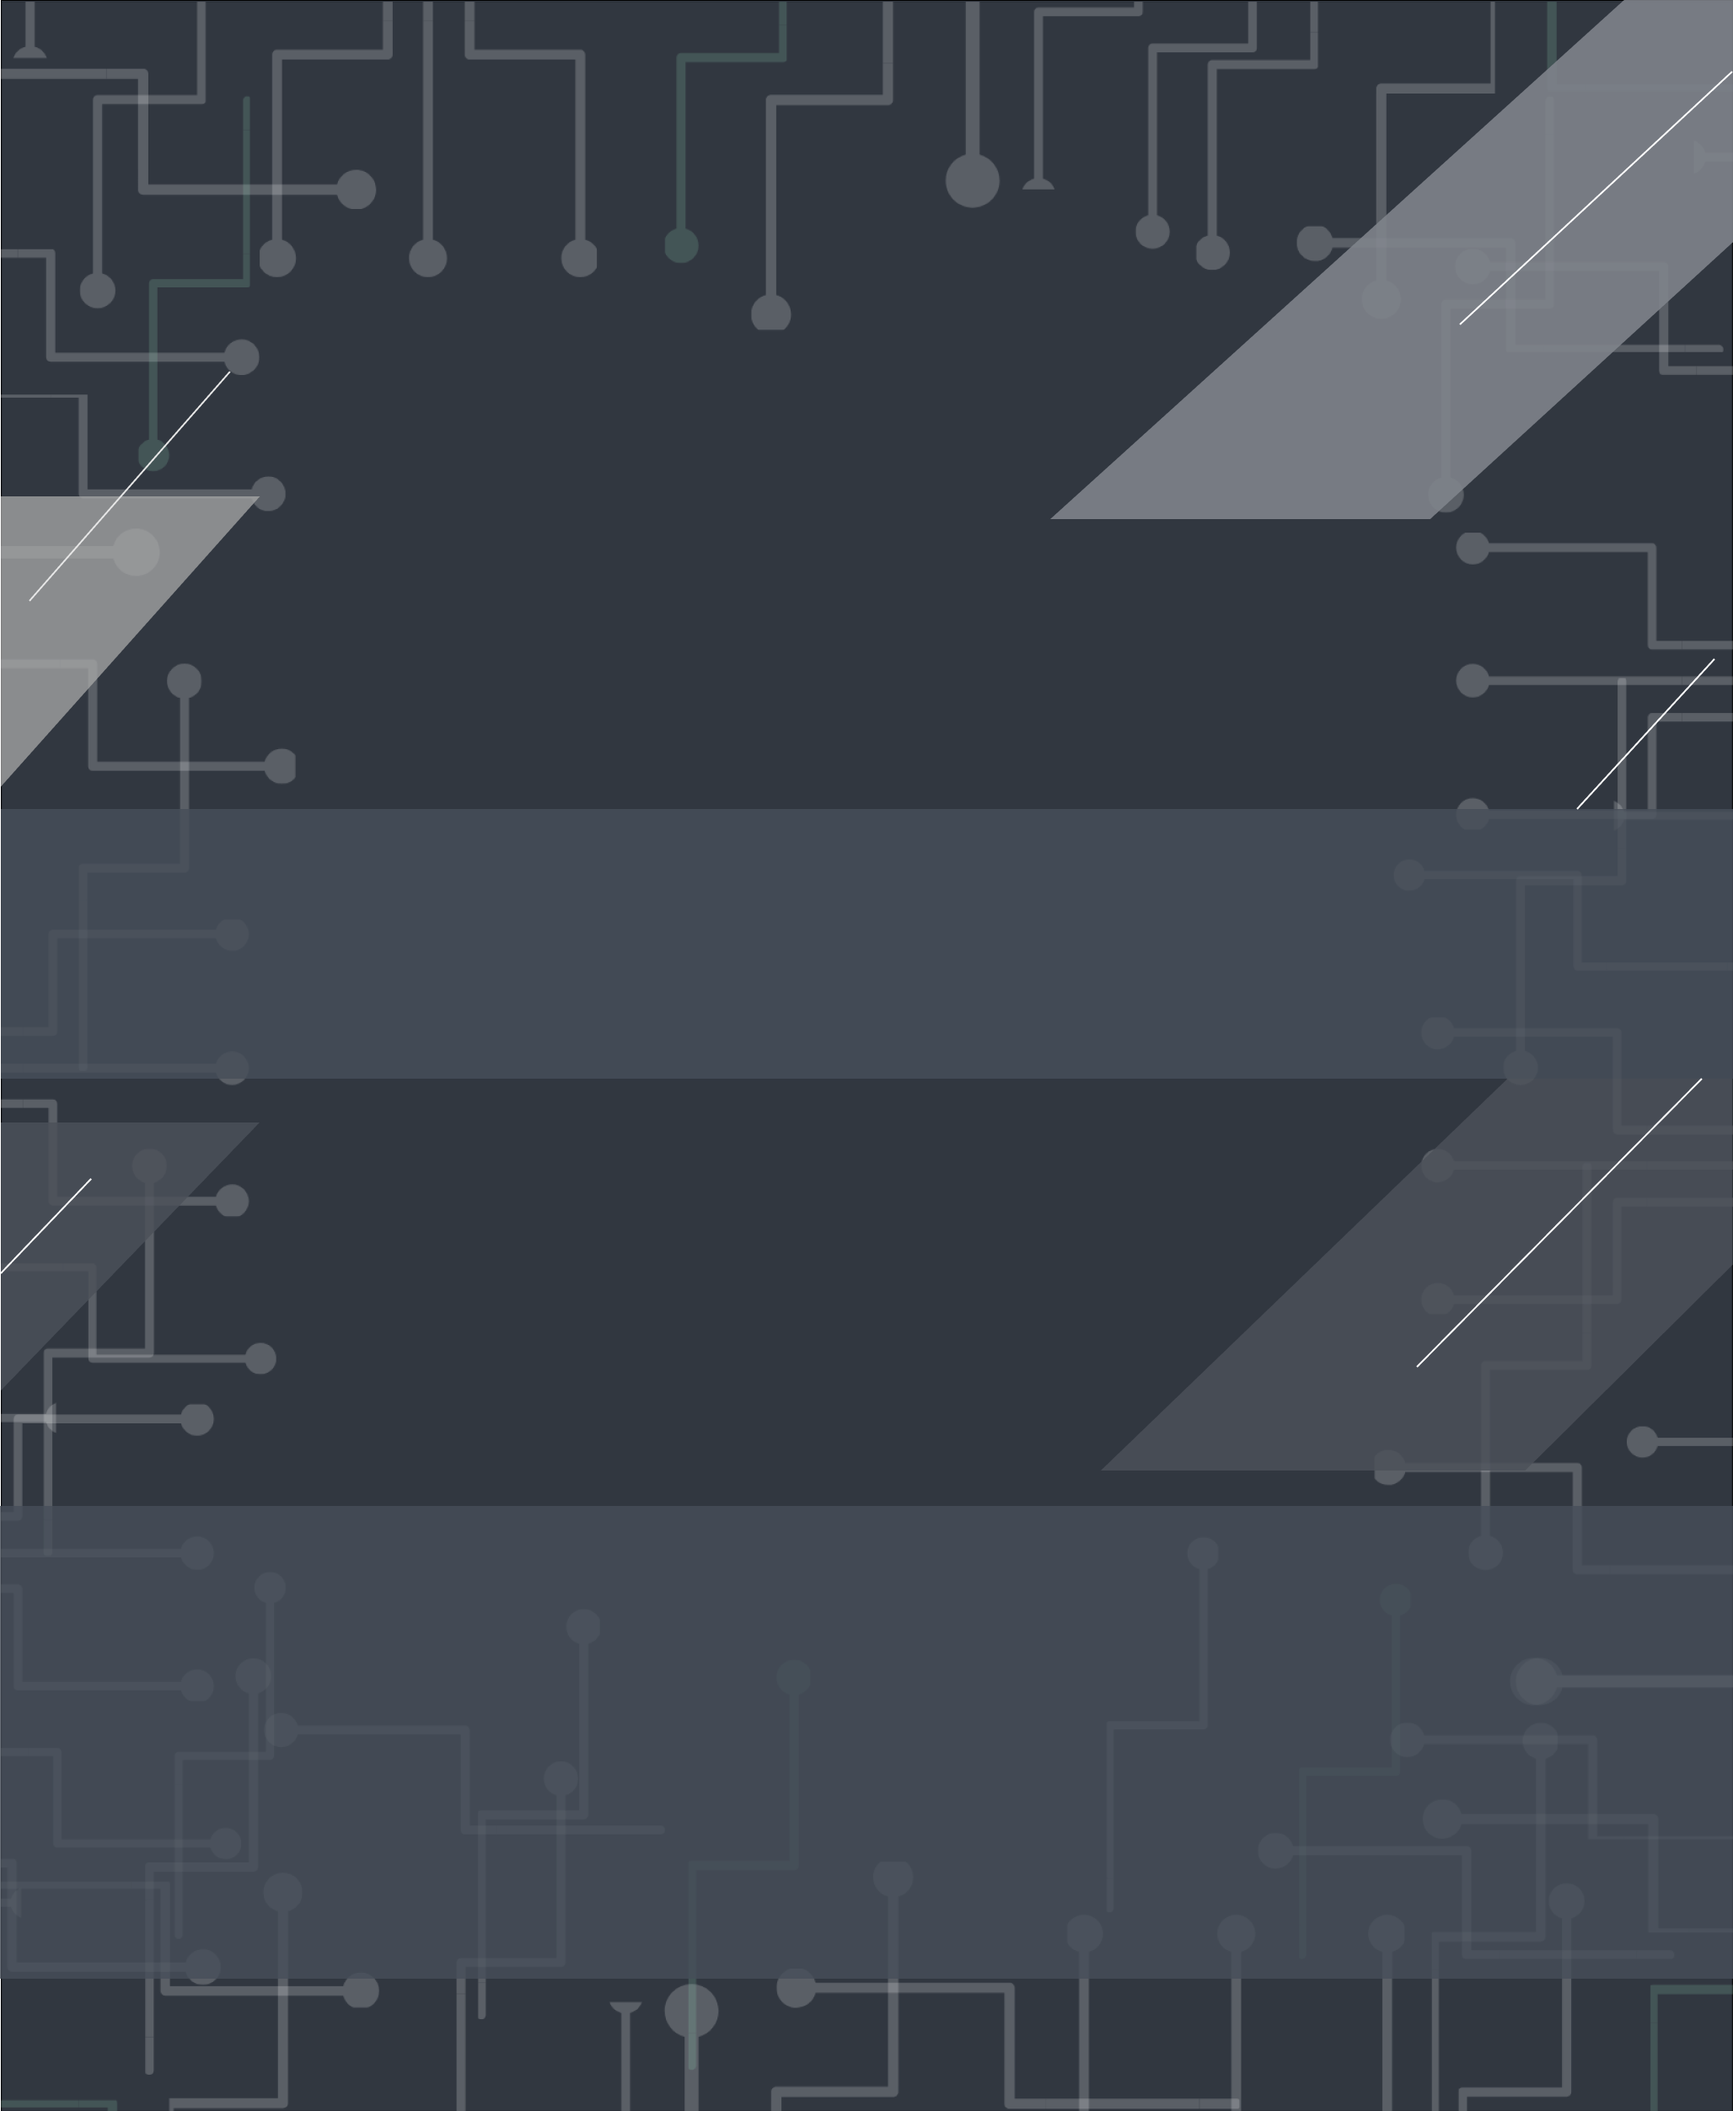
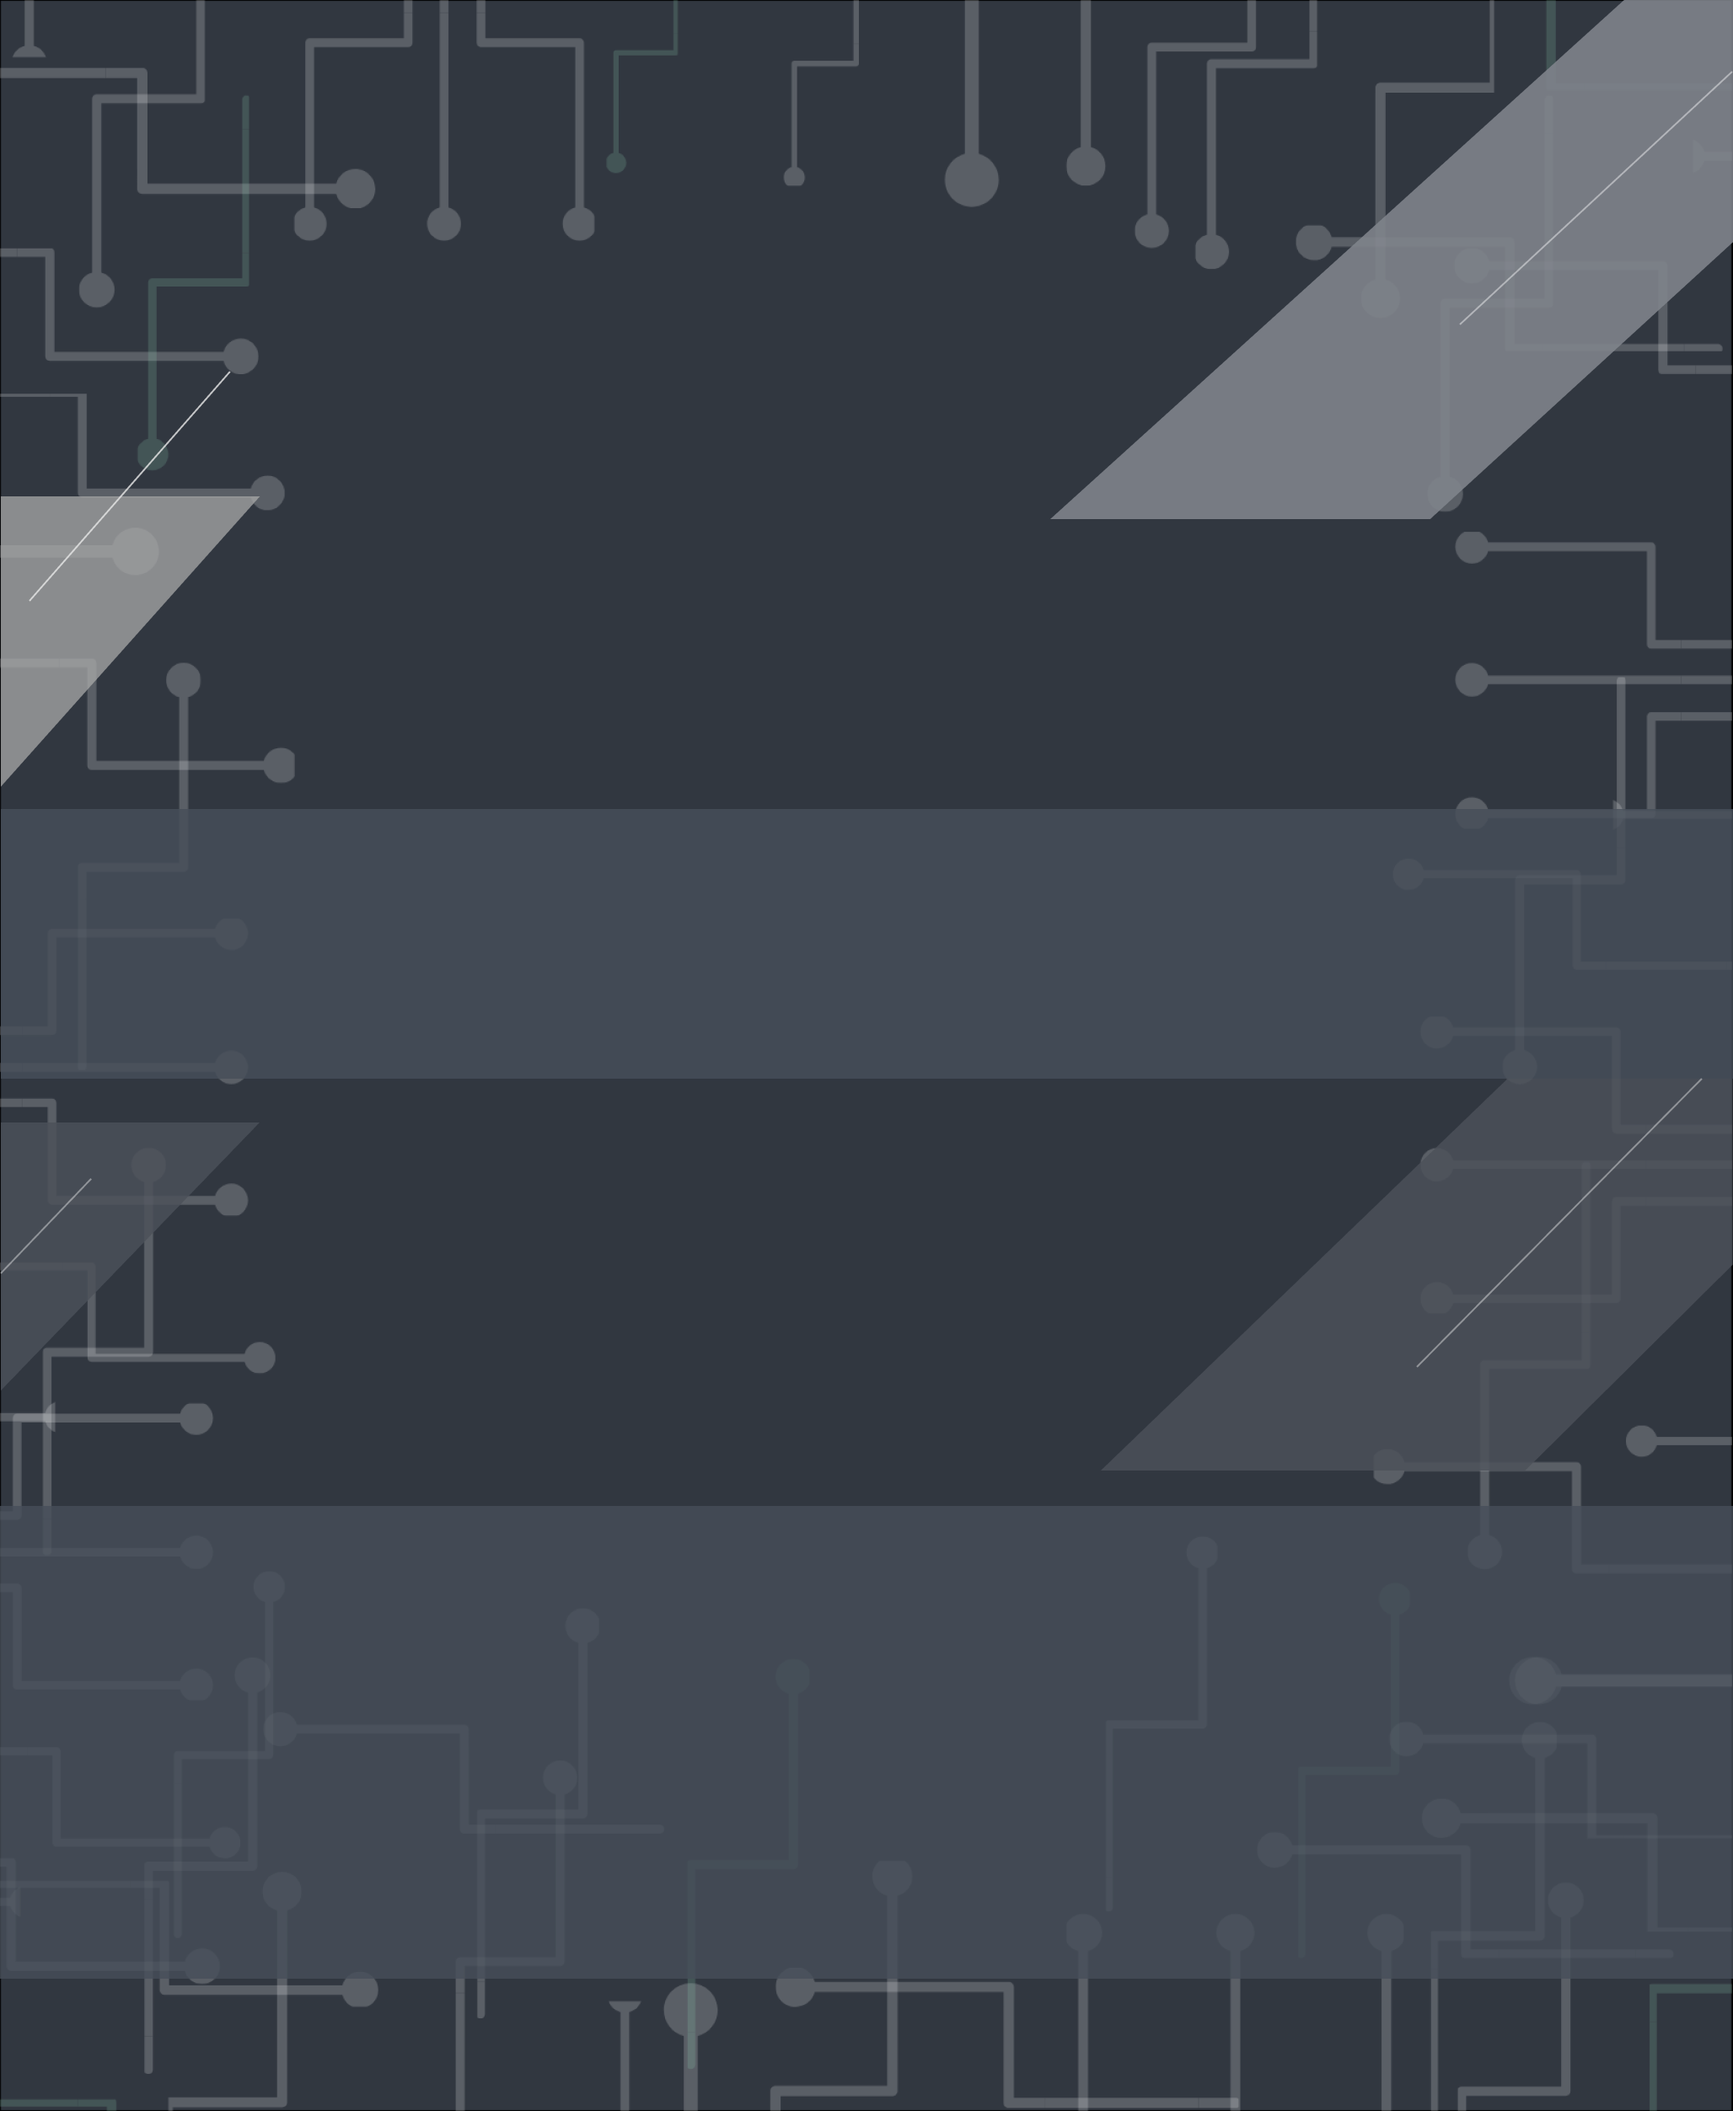
style: Change Background

diff --git a/portifolio-react/src/components/Experience.jsx b/portifolio-react/src/components/Experience.jsx
@@ -10,23 +10,23 @@ import {
 
 function Experience () {
 	return (
-		<section className='flex flex-col justify-center w-full border-red-600 border-2 '>
-			<div className='flex mt-12 justify-between mx-36 align-middle'>
+		<section className='flex flex-col justify-center w-full '>
+			<div className='flex mt-[250px] justify-between mx-36 align-middle'>
 				<div className='text-white text-center'>
-					<h1 className=' mb-4 justify-center text-3xl'>Experiences</h1>
+					<h1 className=' mb-4 justify-center text-3xl text-[#4b8d91]'>Experiences</h1>
 					<p className='text-xl'>Soon</p>
 					<p className='text-xl'>Feel free to checkout my projects below</p>
 				</div>
 				<div className='flex flex-col flex-nowrap'>
-					<h1 className=' mb-4 justify-center text-3xl text-center text-white'>
+					<h1 className=' mb-4 justify-center text-3xl text-center text-[#4b8d91]'>
 						Stacks
 					</h1>
 					<div className='flex flex-nowrap align-middle'>
-						<FontAwesomeIcon icon={faJs} className='h-24 text-white' />
-						<FontAwesomeIcon icon={faHtml5} className='h-24 text-white' />
-						<FontAwesomeIcon icon={faCss3Alt} className='h-24 text-white' />
-						<FontAwesomeIcon icon={faReact} className='h-24 text-white' />
-						<FontAwesomeIcon icon={faVuejs} className='h-24 text-white' />
+						<FontAwesomeIcon icon={faJs} className='h-24 text-white hover:text-[#437c80] hover:h-28' />
+						<FontAwesomeIcon icon={faHtml5} className='h-24 text-white hover:text-[#437c80] hover:h-28' />
+						<FontAwesomeIcon icon={faCss3Alt} className='h-24 text-white hover:text-[#437c80] hover:h-28' />
+						<FontAwesomeIcon icon={faReact} className='h-24 text-white hover:text-[#437c80] hover:h-28' />
+						<FontAwesomeIcon icon={faVuejs} className='h-24 text-white hover:text-[#437c80] hover:h-28' />
 						{/* <img src={faJs} alt="stacks" /> */}
 					</div>
 				</div>

diff --git a/portifolio-react/src/components/Header.jsx b/portifolio-react/src/components/Header.jsx
@@ -4,28 +4,28 @@ import GifBnWhite from '../data/images/GifBnWhite.gif'
 
 function Header () {
 	return (
-		<header className='flex w-full justify-center h-[100px] z-10 fixed drop-shadow-lg border-red-600 border-2 mt-10'>
+		<header className='flex w-full justify-center h-[100px] z-10 drop-shadow-lg bg-[#464E59] mt-10'>
 			<div className='px-60 flex justify-between items-center w-full h-full'>
 				<img className='h-20' src={GifBnWhite} alt='Logo Bruno Negri' />
 				<nav className='flex text-white'>
 					<a href='#apresentação'>
 						<p className='mx-2 text-xl'>
-							<span className='mr-1 text-sm'>01.</span>Home
+							<span className='mr-1 text-sm text-[#588e91]'>01.</span>Home
 						</p>
 					</a>
 					<a href='#Hardskill'>
 						<p className='mx-2 text-xl'>
-							<span className='mr-1 text-sm'>02.</span>About
+							<span className='mr-1 text-sm text-[#588e91]'>02.</span>About
 						</p>
 					</a>
 					<a href='#Softskill'>
 						<p className='mx-2 text-xl'>
-							<span className='mr-1 text-sm'>03.</span>Experience
+							<span className='mr-1 text-sm text-[#588e91]'>03.</span>Experience
 						</p>
 					</a>
 					<a href='#Social'>
-						<p className='mx-2 text-xl'>
-							<span className='mr-1 text-sm'>04.</span>Projects
+						<p className='mx-2 text-xl '>
+							<span className='mr-1 text-sm text-[#588e91]'>04.</span>Projects
 						</p>
 					</a>
 				</nav>

diff --git a/portifolio-react/src/components/About.jsx b/portifolio-react/src/components/About.jsx
@@ -6,10 +6,10 @@ import Brnpic from '../data/images/Brnpic.png'
 function About () {
 	const Iam = "I'm"
 	return (
-		<div className='flex h-[400px] justify-center mx-16 mt-16 '>
+		<div className='flex h-[400px] justify-center mx-16 mt-[100px] '>
 			<div className='flex h-full justify-between align-middle'>
-				<div className='w-[60%] text-white '>
-					<h1 className='text-3xl text-center mb-7'>ABOUT</h1>
+				<div className='w-[60%] ml-10 text-white '>
+					<h1 className='text-3xl text-center mb-7 text-[#4b8d91]'>ABOUT</h1>
 					<p className='text-2xl'>
 						<p className='mb-3'>
 							{`${Iam} a Front-End Web Developer. Passionate about technology, my
@@ -24,7 +24,7 @@ function About () {
 					</p>
 				</div>
 				<img
-					className='h-80 rounded mt-5 mx-auto'
+					className='h-80 rounded-full border border-[#588E91] mt-5 mx-auto'
 					src={Brnpic}
 					alt='BrunoPic'
 				/>

diff --git a/portifolio-react/src/components/Hero.jsx b/portifolio-react/src/components/Hero.jsx
@@ -6,16 +6,16 @@ import Whatsapp from '../data/images/Whatsapp.png'
 function Hero () {
 	const Iam = "Hello, I'm"
 	return (
-		<section className='mt-[350px]'>
-			<div className='mx-48 my-56'>
+		<section className='mt-[200px]'>
+			<div className='mx-48'>
 				<div>
 					<p className='text-2xl text-white'>{Iam}</p>
-					<h4 className='text-[86px] text-white'>Bruno Negri</h4>
+					<h4 className='text-[86px] text-[#4b8d91]'>Bruno Negri</h4>
 					<p className='text-2xl text-white mt-2'>
           FRONT-END WEB DEVELOPER
 					</p>
 				</div>
-				<button className="px-7 py-3 bg-zinc-600 rounded-md text-white ml-3 mt-6">
+				<button className="px-7 py-3 bg-[#437c80] rounded-md text-white ml-3 mt-6">
           Download Resume
 				</button>
 				<div className="mt-7">

diff --git a/portifolio-react/src/index.js b/portifolio-react/src/index.js
@@ -1,13 +1,11 @@
-import React from 'react';
-import ReactDOM from 'react-dom/client';
-import App from './App';
+import React from 'react'
+import ReactDOM from 'react-dom/client'
+import App from './App'
 import './index.css'
 
-
-const root = ReactDOM.createRoot(document.getElementById('root'));
+const root = ReactDOM.createRoot(document.getElementById('root'))
 root.render(
-  <React.StrictMode>
-    <App />
-  </React.StrictMode>
-);
-
+	<React.StrictMode>
+		<App />
+	</React.StrictMode>
+)

diff --git a/portifolio-react/src/pages/Home.jsx b/portifolio-react/src/pages/Home.jsx
@@ -7,7 +7,8 @@ import Projects from '../components/Projects'
 
 function Home () {
 	return (
-		<main className="drop-shadow-lg w-9/12 mx-auto  border-red-600 border-2">
+	// border-red-600 border-2
+		<main className="drop-shadow-lg w-9/12 mx-auto ">
 			<Header />
 			<Hero />
 			<Experience />

diff --git a/portifolio-react/src/components/Projects.jsx b/portifolio-react/src/components/Projects.jsx
@@ -2,7 +2,7 @@ import React from 'react'
 
 function Projects () {
 	return (
-		<section className="h-[540px] border-red-600 border-2">
+		<section className="h-[540px]">
 			<div className="flex w-full justify-center mt-10">
 				<h1>Projects</h1>
 			</div>

diff --git a/portifolio-react/src/index.css b/portifolio-react/src/index.css
@@ -3,7 +3,7 @@
 @tailwind utilities;
 
 body {
-    background: url('./data/images/Wallpaper2.png');
+    background: url('./data/images/Wallpaper3.png');
     background-repeat: no-repeat;
     background-size: cover;
 }
